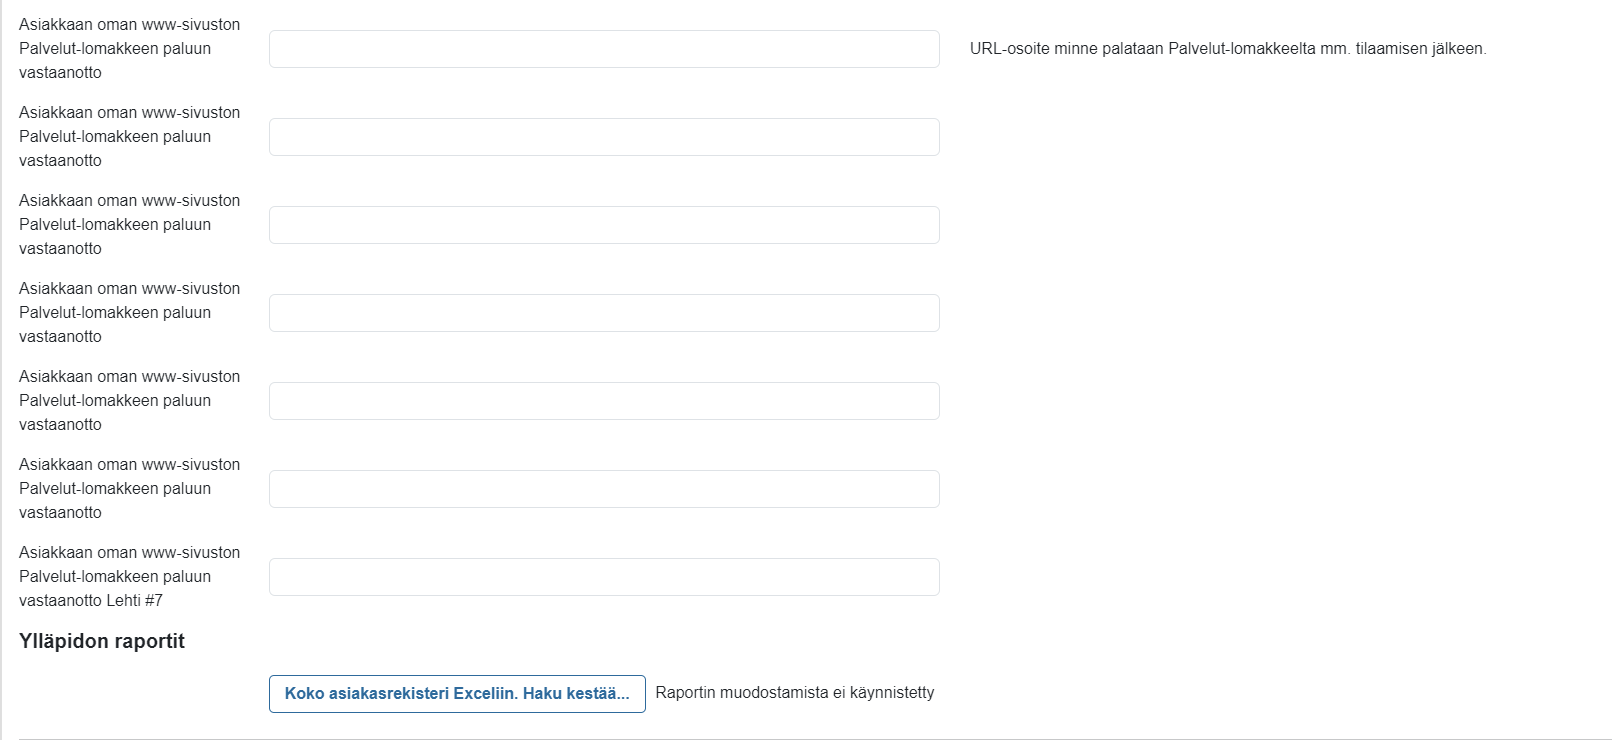
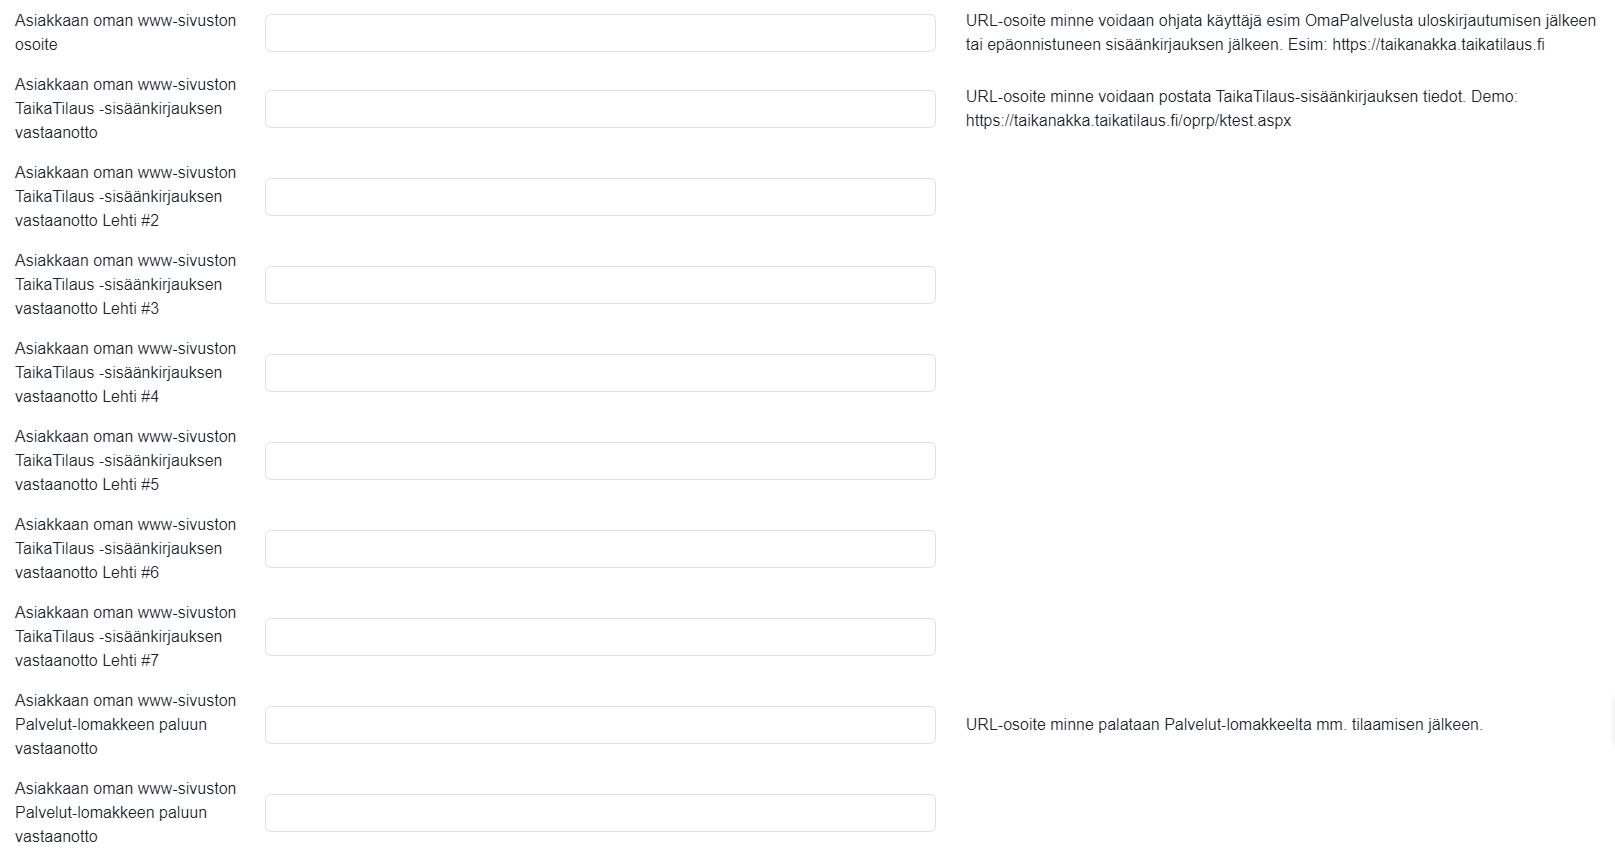
pääkäyttäjä + kuvien luominen

diff --git a/docs/ohjeet/asetukset.md b/docs/ohjeet/asetukset.md
@@ -123,9 +123,9 @@ Kaikissa Kestotilaustyyppisissä tuotteissa pituuden on oltava joku muu kuin 0, 
 
 ![Tilaustuotteet - Tuotteen lisääminen](/img/ohjeet/tilaustuotteet-lisaaminen6.png)
 
-- Tuotteelle on määriteltävä **Valittavissa aikavälillä** -aikarajaus. Jos tuote halutaan olevan aina valittavissa, tulee päättymispäivämäärän olla riittävän kaukana tulevaisuudessa (esim. 31.12.2050)
+- Tuotteelle on määriteltävä **Valittavissa aikavälillä** -aikarajaus. Jos tuote halutaan olevan aina valittavissa, tulee päättymispäivämäärän olla riittävän kaukana tulevaisuudessa (esim. 31.12.2050). Valittavuus tarkoittaa, että tuote on valittavissa ohjelman valikoissa.
 - Tuotteelle määritellään myös **Tilaus mahdollinen aikavälillä** -aikarajaus, joka rajaa sen käytettävissä olevan tilausjakson. Yksittäisen tilauksen alku- ja loppupäivät tulee mahtua annetun aikarajoituksen sisään. Mikäli tuote halutaan olevan aina valittavissa, tulee päättymispäivämäärän olla riittävän kaukana tulevaisuudessa (esim. 31.12.2050), koska ’toistaiseksi voimassaolevaa’ tuotetyyppiä ei ole käytettävissä
-- **Tilauksen päättymisaika tuotteesta**: //teksti puuttuu, mitä tarkoittaa
+- **Tilauksen päättymisaika tuotteesta**: 
 
 ![Tilaustuotteet - Tuotteen lisääminen](/img/ohjeet/tilaustuotteet-lisaaminen7.png)
 
@@ -133,6 +133,10 @@ Kaikissa Kestotilaustyyppisissä tuotteissa pituuden on oltava joku muu kuin 0, 
 - **Digipalvelu**–kentän avulla tuotteita voi ryhmitellä saman Digipalvelu-ryhmän alle. Digipalveluissa voidaan tutkia onko tilaajalla aktiivisena tiettyä Digipalvelua ja täten näyttää muun muassa wwww-sivun sisältö sen mukaan.
 - **Stripe tuotetyyppi ja PriceID**: Stripe-palveluun määritellyn tuotteen tyyppi ja API PriceID
 - **SKU-koodi**: Tuotteen yksilöivä koodi m.m. kirjamyynnissä.
+
+## Tilauspaketit
+
+![Tilaustuotteet - Tuotteen lisääminen](/img/ohjeet/tilauspaketti.png)
 
 ## Erillistuotteet
 
@@ -401,31 +405,34 @@ Esim. <a href="https://taikatilaus.github.io/docs/ohjeet/yleiset_ominaisuudet/ha
 
 ![Pääkäyttäjä](/img/ohjeet/paakayttaja.png)
 
-**Pääkäyttäjä**–välilehden tietoja voi muokata vain palvelun Pääkäyttäjiksi nimetyt. 
+**Pääkäyttäjä**–välilehden tietoja voi muokata vain palvelun **pääkäyttäjiksi nimetyt käyttäjät**. 
 
-Välilehdeltä voi lisätä mm.
+Välilehdeltä voi muokata mm.
 - yrityksen ja sen tuotteiden perustietoja
 - uusia Lehtien tilaustapoja
 - muuttaa Laskunumerosarjan alku- ja loppunumerointeja
-- aktivoinnin Kampanja tuotteiden käyttöä varten
-- rajoituksen tekstiviestien lkm/päivä
-- määrityksen painotalon asettamalle jakelunippujen minimikoolle
-- aktivoinnin Ilmoitusmyynti -toimintoihin ja niiden kenttien näkyvyyksiin
-- aktivoinnin OmaPalvelun -toimintoihin
-- aktivoinnin Paperilaskutuslisän käytölle
+- aktivoida Kampanja tuotteiden käytön
+- asettaa rajoituksen tekstiviestien lkm/päivä
+- määrittää jakelunippujen minimikoon
+- aktivoida Ilmoitusmyynti-toiminnot ja siihen liittyvät kentät
+- aktivoida OmaPalvelu-toiminnot
+- aktivoida Paperilaskutuslisän käyttöön
 
-- Tiedostoja lähetettäväksi ylläpitäjälle esim. asiakastietoja massapäivitystä varten
-- Tiedostoja noudettavaksi ylläpitäjältä esim. tarkastamista varten.
+Voit myös lähettää tiedostoja ylläpitäjälle esim. asiakastietoja massapäivitystä varten tai nuotaa tiedostoja ylläpitäjältä esim. tarkastamista varten.
 
-### Lomakkeen alkupään toiminnot
+### Laskun muodostamistiedot
 
-![Pääkäyttäjä](/img/ohjeet/paakayttaja2.png)
+![Pääkäyttäjä](/img/ohjeet/paakayttaja9.png)
 
 Painamalla Laskun muodostamistiedot vierässä olevaa **NÄYTÄ**-painiketta avautuu uusi välilehti, missä näet laskutustiedot eri tuotteille.
 - välilehdeltä näet mm. minä päivinä laskuja muodostetaan automaattisesti ja mikä on eri tuotteiden huomautusaika maksumuistutuksille
 
 ![Pääkäyttäjä](/img/ohjeet/paakayttaja3.png)
 *Laskujen muodostamistiedot -näkymä.*
+
+### Lomakkeen alkupään toiminnot
+
+![Pääkäyttäjä](/img/ohjeet/paakayttaja2.png)
 
 - **Yrityksen nimi** -kentästä voit muokata yrityksen nimeä 
 - **Julkaisujen lyhenteet** -kenttään kirjataan eri lehtijulkaisujen nimien lyhenteet omille riveilleen
@@ -436,37 +443,94 @@ Painamalla Laskun muodostamistiedot vierässä olevaa **NÄYTÄ**-painiketta ava
 
 ![Pääkäyttäjä](/img/ohjeet/paakayttaja4.png)
 
-- Ei laskutuslisää kenttä käytössä
-- Uusi tilaus kenttä käytössä
-- Kampanja käytössä
-- Tekstiviestien max. lähetysmäärä päivässä
-- Lehtien painoaineistossa minimi nippukoko
-- Lehtien tilausmyyjät
-- Myyjätieto laskulle
-- Kirjautumistunniste käytössä
-- Paketti käytössä
+- **Ei laskutuslisää -kenttä käytössä** -kentän aktivoidessa asiakaskortille tulee näkyviin *Ei laskutuslisää* -kenttä.
+- **Uusi tilaus -kenttä käytössä** -kentän aktivoidessa Tilaus-näytölle ilmestyy *Uusi tilaus* -kenttä.
+- **Kampanja käytössä** -kentän aktivoidessa tuotteita voidaan ryhmitellä erilaisiin kampanjoihin
+- **Tekstiviestien max. lähetysmäärä päivässä** -kenttään syötetään luku (0-10,000), joka kertoo, kuinka monta tekstiviestiä voi lähettää päivittäin ohjelman avulla
+- **Lehtien painoaineistossa minimi nippukoko** -kenttään annetaan lehtien nippujen minimikoko
+- **Lehtien tilausmyyjät** -annetaan lista lehtimyyjistä, joita voi tämän jälkeen valita valikosta tilauksille tilauksia tehtäessä
+
+![Pääkäyttäjä](/img/ohjeet/myyjat-asetukset.png)
+*Kun tilaus on tehty myyjän kautta, valitaan tilausta kirjatessa tilauksen tehneen myyjän nimi valikosta.*
+
+- **Myyjätieto laskulle** -kentän aktivoidessa tulee myyjätieto esiin laskulle
+- **Kirjautumistunniste käytössä** -kentän aktivoidessa käytetään ePaper-kirjautumispinnassa vaihtuvaa käyttäjäkohtaista kirjautumistunnistetta
+- **Paketti käytössä** -kentän aktivoidessa voi tilaustuotteista muodostaa paketteja ja asetuksiin tulee näkyviin Tilauspaketit-välilehti
 
 ### Ilmoitusmyynti
 
 ![Pääkäyttäjä](/img/ohjeet/paakayttaja5.png)
 
+- **Vapauta ilmoitusvaraus laskutukseen** -kenttään annetaan ilmoitusvarauksen varausnumero ja painetaan *Vapauta ilmoitusvaraus laskutukseen* -painiketta. Käytetään esim. kun lasku on lähtenyt väärälle henkilölle
+- **OmaIlmo-sovelluksen nimi** -kenttään annetaan OmaIlmo-sovelluksen nimi
+- **Myyntituotteen lisääminen laskulla** -kentän aktivoidessa laskun tuoteriviksi voi lisätä myyntituotteen
+- **Julkiset lisätiedot käytössä** -kentän aktivoidessa ilmoitusvarauksen lisätiedot ovat julkisia ja siten asiakkaalle näkyvissä
+- **Laskutuspäivä käytössä** -kentän aktivoidessa ilmoitusvaraukseen voidaan lisätä laskutuspäivä, joilloin lasku lähetetään asiakkaalle
+- **Värillisyys käytössä** -kentän aktivoidessa voidaan valita ilmoituksen väriksi mustavalkoinen tai värikäs
+- **Piilota Palstoja, Korkeus, ja Ilmoitusosasto** -kentän aktivoidessa ilmoitusvarauslomakkeelta piilotetaan Pastoja, Korkeus, ja Ilmoitusosasto -kentät.
+
+![Pääkäyttäjä](/img/ohjeet/ilmoitusvaraus-paakayttaja.png)
+*Pääkäyttäjä voi muokata ilmoitusvarauslomakkeen kenttien näkyvyyttä Pääkäyttäjä-välilehdeltä.*
+
+- **Aineisto on valmis ilmoitukseksi - valinta oletuksena päällä** -kentän aktivoidessa ilmoitusvaraukseen aineistoa lisätessä on *Aineisto on valmis ilmoitukseksi* -kenttä oletuksena päällä
+- **Näytä myyjään liitetty laskutustieto eli millä tiedoilla ilmoitusvarauksen lasku luodaan**
+- **Laskutetaan omanaan-ruksi** -kentän aktivoidessa tulee pelkistetylle ilmoitusvarauslomakkeelle näkyviin *Laskutetaan omanaan* -valinta
+- **Ilmoitus on valmis-ruksi** -kentän aktivoidessa tulee pelkistetylle ilmoitusvarauslomekkeella näkyviin *Ilmoitus on valmis* -valinta
+
+![Pääkäyttäjä](/img/ohjeet/ilmoitusvaraus-paakayttaja2.png)
+
+- **YT-hinta käytössä** -kentän aktivoidessa voidaan tuotteelle määritellä yhteistyöhinta, mitä käytetään sisäisessä laskutuksessa
+
 ![Pääkäyttäjä](/img/ohjeet/paakayttaja6.png)
 
+- **AdWizard-käytössä** -kenttä aktivoidaan, jos ilmoitusvarauksia käsitellään Mediaboxin InDesign Scoop-lisäosalla
+- **Laskutus kuun viim. kalenteripäivänä-valinta** -kentän aktivoidessa ilmoitusvarauslomakkeelle tulee kyseinen valinta käyttöön laskutustavaksi
+
+![Pääkäyttäjä](/img/ohjeet/ilmoitusvaraus-paakayttaja3.png)
+
+- **Raportoinnissa Reskontraluottelo 2 käytössä** - ///?????
+- **Käyttäjätunnukset (OmaPalvelu2-näyttö näkyvissä)** -///????
+- **Valmistuslisän tuoteID** -kenttään syötetään ilmoitusvarauksen valmistuslisän tuotenumero
+- **Käyttäjätunnukset joilla oikeus myyntikiellon käsittelyyn** -kenttään syötetään niiden käyttäjien käyttäjätunnukset, joilla on oikeus ilmoitusasiakkaan myyntikiellon käsittelyyn
 
 ### Osoitekentät
 
-![Pääkäyttäjä](/img/ohjeet/paakayttaja9.png)
-
 ![Pääkäyttäjä](/img/ohjeet/paakayttaja7.png)
+
+Osoitekenttiin voidaan syöttää:
+
+- **Asiakkaan oman www-sivuston osoite**: URL-osoite, minne käyttäjä ohjataan esim. epäonnistuneen sisäänkirjautumisen jälkeen
+- **Asiakkaan oman www-sivuston TaikaTilaus -sisäänkirjauksen vastaanotto**: URL-osoite, minne voidaan lähettää TaikaTilaus-ohjelman sisäänkirjautumisien tiedot
+- **Asiakkaan oman www-sivuston Palvelut-lomakkeen paluun vastaanotto**: URL-osoite, minne palataan Palvelut-lomakkeelta mm. tilaamisen jälkeen
 
 ### Lomakkeen loppupään toiminnot
 
 ![Pääkäyttäjä](/img/ohjeet/paakayttaja8.png)
 
-Sekä koostaa raportin Koko Asiakasrekisteri Exceliin + tilaus, lasku ja myyntitiedot –taulukkoon
-- tuo KAIKKI, (Poistettu 0=normaali / Poistettu 1=poistettu) , jonka avulla voidaan päättää mm. palvelusta pois siivottavat vanhat tiedot (kuten tupla-asiakaskortit)
+**Ylläpidon raportit**
+- koostaa raportin Koko Asiakasrekisteristä Exceliin + tilaus, lasku ja myyntitiedot –taulukkoon. Raportin luominen suuresta asiakasrekisteristä saattaa viedä aikaa. Haku kestää noin 1000 kontaktia/1 minuutti.
+- kun raportti on luotu, ilmestyy raportin lataamiseen linkki
 
-Ja muuttaa tiliöintien tilitietoja, sekä lähettää/vastaanottaa palveluun liittyviä siirtotiedostoja.
+![Pääkäyttäjä](/img/ohjeet/paakayttaja9.png)
+
+**Pääkäyttäjätoiminnot**
+- Testaa Wordpress-salasanan tarkistamista ///???
+
+**Muuta tiliöinnin tiliä**
+- painikkeesta painamalla muodostuu alla olevan kuvan mukaiset kentät, joista voi muuttaa yksittäisten tiliöintien tiliä
+
+![Pääkäyttäjä](/img/ohjeet/paakayttaja10.png)
+
+**Lataa tiedosto TaikaTilaukselta**
+- painikkeen kautta voit ladata TaikaTilauksen sinulle toimittamia tiedostoja
+
+![Pääkäyttäjä](/img/ohjeet/paakayttaja11.png)
+
+**Toimita tiedosto TaikaTilaukselle**
+- painikkeen kautta voit lähettää tiedostoja TaikaTilauksella (esim. isot muutokset asiakasrekisterissä)
+- ilmoita tuki@taikatilaus.fi tiedoston lähettämisestä
+
+![Pääkäyttäjä](/img/ohjeet/paakayttaja12.png)
 
 ## Käyttäjät
 
